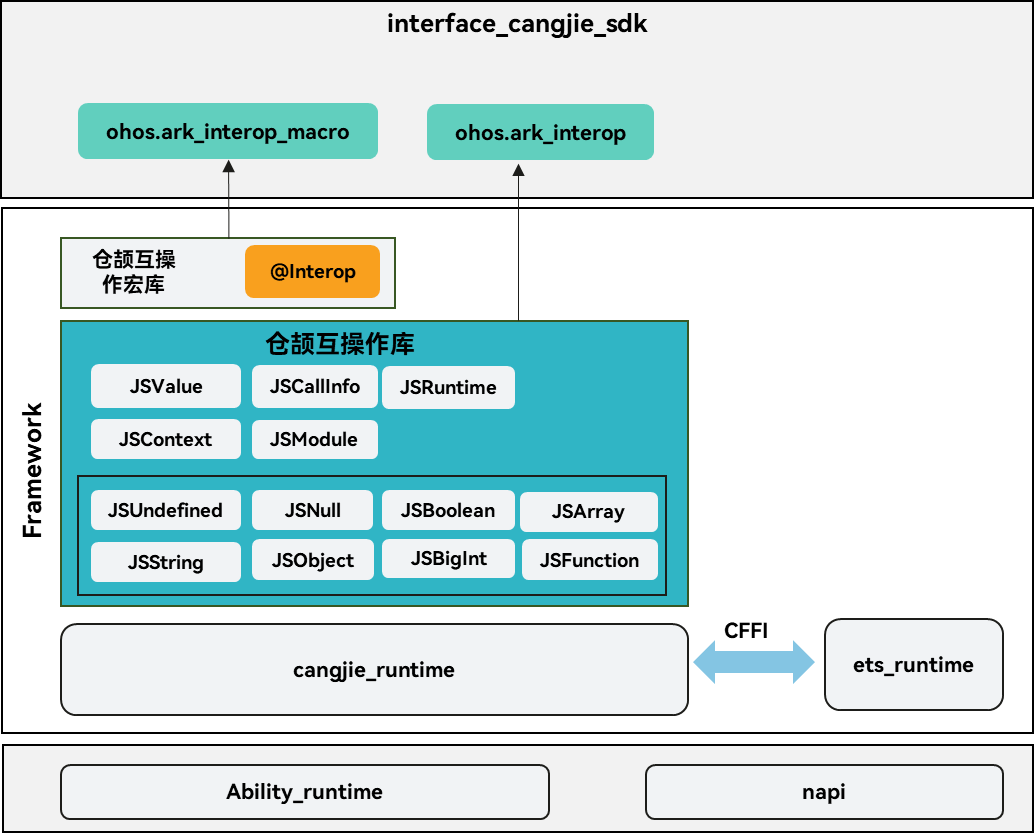
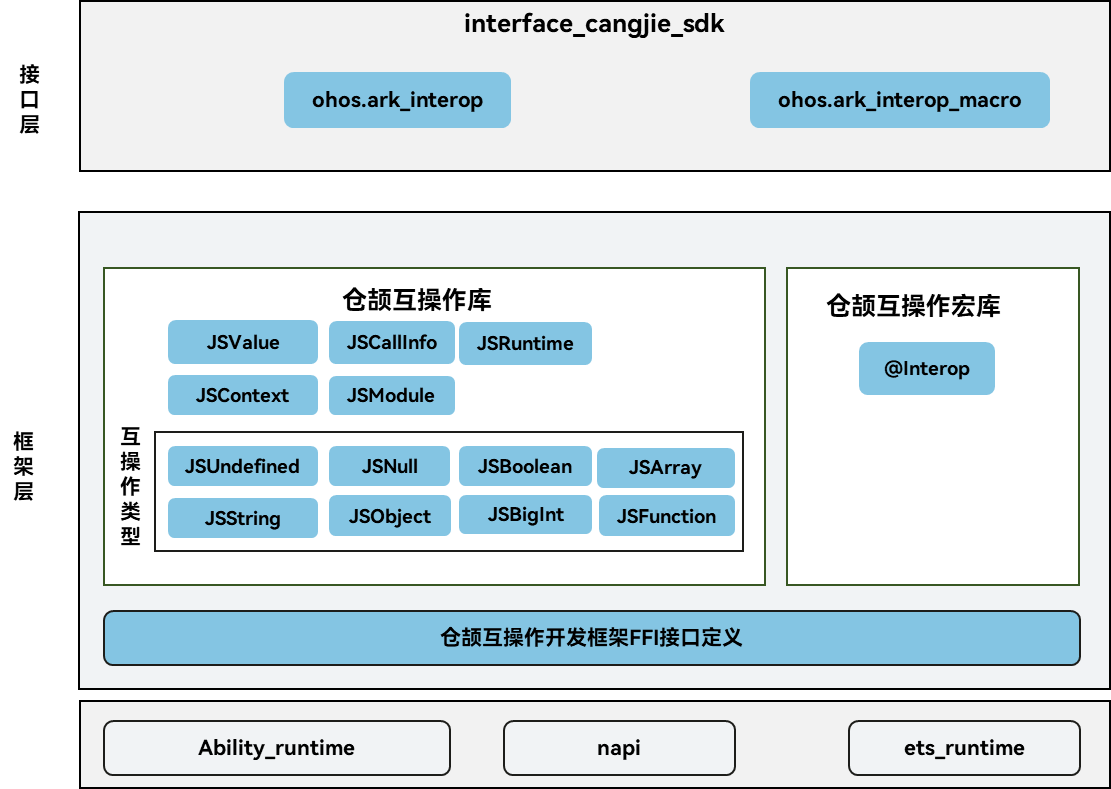
fixed doc

diff --git a/README_zh.md b/README_zh.md
@@ -1,8 +1,17 @@
-# 仓颉-ArkTS互操作接口
+# 仓颉-ArkTS互操作
 
 ## 简介
 
-仓颉-ArkTS互操作接口，用于提供仓颉与ArkTS跨语言互操作能力，包含仓颉互操作库接口、互操作宏接口，期望给开发者提供兼顾开发效率和运行效率的跨语言互操作解决方案，提供简洁的互操作开发范式，降低跨语言互通开销。同时本仓还提供了公共能力接口，包含JSON序列化和反序列化接口、C语言互操作工具类接口、通用异常接口、回调接口、API Level接口，并且还提供了公共文档，包含仓颉API参考、应用开发指南和仓颉编程语言用户手册。当前本仓开放的接口仅支持standard设备。
+仓颉-ArkTS互操作，用于提供仓颉与ArkTS跨语言互操作能力，包含仓颉互操作库接口、互操作宏接口，期望给开发者提供兼顾开发效率和运行效率的跨语言互操作解决方案，提供简洁的互操作开发范式，降低跨语言互通开销。同时本仓还提供了公共能力接口，包含JSON序列化和反序列化接口、C语言互操作工具类接口、通用异常接口、跨语言回调接口，并且还提供了公共文档，包含仓颉API参考、应用开发指南和仓颉编程语言用户手册。当前本仓开放的接口仅支持standard设备。
+
+本仓库提供的公共能力接口共分两类，第一类用于开发者调用仓颉API时提供的公共接口，包含通用异常接口、跨语言回调接口；第二类用于仓颉内部API开发时，使用的内部公共接口，包含JSON序列化和反序列化接口和C语言互操作工具类接口。
+
+- 通用异常接口：提供了通用的异常类BusinessException。
+- 跨语言回调接口：提供了用于跨语言函数回调参数的工具类。
+- JSON序列化和反序列化接口：用于对JSON数据的处理，实现String,JsonValue,DataModel之间的相互转换。
+- C语言互操作工具类接口：提供了管理C互操作对象的工具类。
+
+## 系统架构
 
 整体架构如下图所示：
 
@@ -15,28 +24,17 @@
     - 互操作库(ohos.ark_interop)：开发者通过调用互操作提供的API，实现跨语言参数传递、函数调用等能力。
     - 互操作宏(ohos.ark_interop_macro)：开发者使用互操作宏来标注需要被ArkTS代码调用的仓颉接口，能够自动生成互操作“胶水”代码及ArkTS接口声明。
 
-- 互操作库还提供以下的关键数据结构：
+- 关键数据结构：
 
-    - JSValue: 用于表示来自ArkTS中的对象（如数字、字符串、对象、函数），是仓颉与ArkTS类型转换的桥梁。
-    - JSModule: JSModule的目标是提供符号导出能力（导出到ArkTS）。配合自定义静态初始化函数，在动态库被加载时把导出目标注册到全局表，并由ArkTS引擎来执行导出。
-    - JSRuntime: 用于表示仓颉创建的 ArkTS 运行时。
-    - JSContext: 用于表示与ArkTS互操作的上下文，提供模块加载、JSValue创建等能力。
-    - JSCallInfo: 用于表示当发生来自于ArkTS互操作调用时 调用的参数集合。
+    - JSRuntime：用于表示ArkTS运行时实例，每个ArkTS运行时对应一个JSRuntime实例，其提供创建JSRuntime的方法，以及获取与该JSRuntime关联的执行上下文JSContext；
+    - JSContext：用于表示与一个JSRuntime关联的执行上下文，该执行上下文保存了全局对象，并提供模块加载，JSValue访问等相关方法；
+    - JSModule：用于表示一个ArkTS模块，通过其提供的方法，即可以把已加载的ArkTS模块转换为JSObject，使能对该模块中数据和方法的访问；也可以创建新模块，并向该模块注册方法，用于将仓颉逻辑导出给ArkTS侧调用；
+    - JSCallInfo：用于表示ArkTS调用仓颉方法时的调用信息，主要用于获取参数数量和参数列表；
+    - JSValue：用于表示一个ArkTS的对象，在仓颉与 ArkTS 互操作时，它用于封装和传递 ArkTS 数据对象，当在仓颉侧需要获取JSValue中的值时，需要使用JSValue中提供的方法将其转换为具体类型的实例，比如JSNumber、JSString、JSBoolean等；反之，当在仓颉侧需要把数据传递给ArkTS时，可以利用JSContext提供的方法将一个仓颉对象封装成JSValue实例；
 
-- 互操作库主要提供以下主要类型有JSUndefined,JSNull,JSBoolean,JSNumber,JSString,JSObject,JSArray,JSFunction,JSBigInt等。
+- 互操作库主要提供以下主要类型:JSUndefined,JSNull,JSBoolean,JSNumber,JSString,JSObject,JSArray,JSFunction,JSBigInt等，其映射的仓颉类型请参考[类型映射](https://gitcode.com/openharmony-sig/arkcompiler_cangjie_ark_interop/blob/master/doc/User_Manual/source_zh_cn/FFI/cangjie-arkts/interoperability_macro.md#%E7%B1%BB%E5%9E%8B%E6%98%A0%E5%B0%84)。
 
 - 互操作库通过C语言互操作调用ArkTS虚拟机和napi提供的接口完成互操作功能。
-
-## 公共能力
-
-本仓库还提供了公共能力的接口，这些接口共分两类，第一类用于开发者调用仓颉API时提供的公共接口，包含通用异常接口、回调接口；第二类用于仓颉内部API开发时，使用的内部公共接口，包含JSON序列化和反序列化接口、C语言互操作工具类接口和API Level接口。
-
-- 通用异常接口：提供了通用的异常类BusinessException。
-- 回调接口：提供了用于函数回调参数的工具类。
-- JSON序列化和反序列化接口：用于对JSON数据的处理，实现String,JsonValue,DataModel之间的相互转换。
-- C语言互操作工具类接口：提供了管理C互操作对象的工具类。
-- API Level接口：提供了API Level的接口，用于获取当前API Level。
-
 
 ## 目录
 
@@ -67,19 +65,19 @@ arkcompiler/cangjie_ark_interop
 
 - 场景一：在使用ArkTS开发时，通过跨语言互操作调用仓颉开发的代码模块，发挥仓颉高性能高并发优势，提升应用性能体验；
 
-详细的例子请参考：[在 ArkTS 中加载仓颉模块](https://gitcode.com/openharmony-sig/arkcompiler_cangjie_ark_interop/blob/master/doc/User_Manual/source_zh_cn/FFI/cangjie-arkts/arkts_import_cangjie.md)
+详细的例子请参考：[在ArkTS中加载仓颉模块](https://gitcode.com/openharmony-sig/arkcompiler_cangjie_ark_interop/blob/master/doc/User_Manual/source_zh_cn/FFI/cangjie-arkts/arkts_import_cangjie.md)
 
 - 场景二：在使用仓颉开发时，通过跨语言互操作调用ArkTS库，复用ArkTS丰富的库生态；
 
-详细的例子请参考：[仓颉应用中使用 ArkTS 模块](https://gitcode.com/openharmony-sig/arkcompiler_cangjie_ark_interop/blob/master/doc/User_Manual/source_zh_cn/FFI/cangjie-arkts/using_arkts_module.md)
+详细的例子请参考：[仓颉应用中使用ArkTS模块](https://gitcode.com/openharmony-sig/arkcompiler_cangjie_ark_interop/blob/master/doc/User_Manual/source_zh_cn/FFI/cangjie-arkts/using_arkts_module.md)
 
-同时针对互操作带来的开发复杂度，仓颉提供声明式互操作宏ark_interop_macro，使开发者可以使用宏“@Interop[ArkTS]”标注仓颉代码中需要导出给ArkTS使用的函数或类型，在编译阶段自动生成互操作“胶水层”代码及ArkTS接口声明，减少开发者手写互操作代码的复杂度。详细的例子请参考：[仓颉- ArkTS 声明式互操作宏](https://gitcode.com/openharmony-sig/arkcompiler_cangjie_ark_interop/blob/master/doc/User_Manual/source_zh_cn/FFI/cangjie-arkts/interoperability_macro.md)。
+同时针对互操作带来的开发复杂度，仓颉提供声明式互操作宏ark_interop_macro，使开发者可以使用宏“@Interop[ArkTS]”标注仓颉代码中需要导出给ArkTS使用的函数或类型，在编译阶段自动生成互操作“胶水层”代码及ArkTS接口声明，减少开发者手写互操作代码的复杂度。详细的例子请参考：[仓颉-ArkTS声明式互操作宏](https://gitcode.com/openharmony-sig/arkcompiler_cangjie_ark_interop/blob/master/doc/User_Manual/source_zh_cn/FFI/cangjie-arkts/interoperability_macro.md)。
 
-## 开发者文档
+互操作相关API请参见[API文档](https://gitcode.com/openharmony-sig/arkcompiler_cangjie_ark_interop/blob/master/doc/API_Reference/source_zh_cn/arkinterop/cj-apis-ark_interop.md)，相关指导请参见[开发指南](https://gitcode.com/openharmony-sig/arkcompiler_cangjie_ark_interop/blob/master/doc/Dev_Guide/summary_cjnative_ohos.md)
 
-[API文档](https://gitcode.com/openharmony-sig/arkcompiler_cangjie_ark_interop/blob/master/doc/API_Reference/source_zh_cn/arkinterop/cj-apis-ark_interop.md)
+## 约束
 
-[开发指南](https://gitcode.com/openharmony-sig/arkcompiler_cangjie_ark_interop/blob/master/doc/Dev_Guide/summary_cjnative_ohos.md)
+无
 
 ## 参与贡献
 
@@ -87,6 +85,8 @@ arkcompiler/cangjie_ark_interop
 
 ## 相关仓
 
-[arkui_napi](https://gitee.com/openharmony/arkui_napi)
+[arkui_napi](https://gitcode.com/openharmony/arkui_napi)
 
-[ability_runtime](https://gitee.com/openharmony/ability_ability_runtime)
+[ability_runtime](https://gitcode.com/openharmony/ability_ability_runtime)
+
+[ability_runtime](https://gitcode.com/openharmony/arkcompiler_ets_runtime)

diff --git a/README.md b/README.md
@@ -1,8 +1,17 @@
-# Cangjie Interop API Public Repository
+# Cangjie - ArkTS Interoperability
 
 ## Introduction
 
-The Cangjie ArkTS Interop Library API is used to provide cross-language interoperability between Cangjie and ArkTS, includes the common interfaces, interop macro interfaces, hoping to provide developers with cross-language interop solutions that take into account both development efficiency and operational efficiency, provide a simple interop development paradigm, and reduce cross-language interop overhead.At the same time, this warehouse also provides public capability interfaces, including JSON serialisation and deserialisation interfaces, C language interoperability utility class interfaces, general exception interfaces, callback interfaces, API Level interfaces, and also offers public documentation, including a Cangjie API reference, application development guide, and Cangjie programming language user manual.Currently, the interfaces open in this warehouse only support standard devices.
+The Cangjie ArkTS Interop Library is used to provide cross-language interoperability between Cangjie and ArkTS, includes the common interfaces, interop macro interfaces, hoping to provide developers with cross-language interop solutions that take into account both development efficiency and operational efficiency, provide a simple interop development paradigm, and reduce cross-language interop overhead.At the same time, this warehouse also provides public capability interfaces, including JSON serialisation and deserialisation interfaces, C language interoperability utility class interfaces, general exception interfaces, Cross-language callback interface, and also offers public documentation, including a Cangjie API reference, application development guide, and Cangjie programming language user manual.Currently, the interfaces open in this warehouse only support standard devices.
+
+The public capability interfaces provided by this repository are divided into two categories: the first category is for developers to call the public interfaces provided by the Cangjie API, including general exception interfaces and callback interfaces; the second category is for internal public interfaces used during the development of the Cangjie internal API, including JSON serialization and deserialization interfaces, and C language interoperability utility class interfaces.
+
+- JSON serialisation and deserialisation interfaces:Used for processing JSON data, achieving mutual conversion between String, JsonValue, and DataModel.
+- C language interoperability interfaces:Provides a utility class for managing C interoperability objects.
+- general exception interfaces:A general exception class BusinessException.
+- callback interfaces:A utility class for function callback parameters.
+
+## System architecture
 
 The overall structure is shown below.
 
@@ -25,16 +34,6 @@ The overall structure is shown below.
 - The interoperability library mainly provides the following main types: JSUndefined, JSNull, JSBoolean, JSNumber, JSString, JSObject, JSArray, JSFunction, JSBigInt, etc.
 
 - The library completes the interoperability function by calling the interface provided by the ArkTS virtual machine and napi through CFFI.
-
-## Public ability
-
-This repository also provides interfaces for public capabilities, which are divided into two categories: the first category is for developers to call the public interfaces provided by the Cangjie API, including general exception interfaces and callback interfaces; the second category is for internal public interfaces used during the development of the Cangjie internal API, including JSON serialization and deserialization interfaces, C language interoperability utility class interfaces, and API Level interfaces.
-
-- JSON serialisation and deserialisation interfaces:Used for processing JSON data, achieving mutual conversion between String, JsonValue, and DataModel.
-- C language interoperability interfaces:Provides a utility class for managing C interoperability objects.
-- general exception interfaces:A general exception class BusinessException.
-- callback interfaces:A utility class for function callback parameters.
-- API level interfaces:Provides an API Level interface for obtaining the current API Level.
 
 ## Directory
 
@@ -81,11 +80,7 @@ At the same time, in response to the development complexity brought about by int
 
 For more detailed examples, please refer to[Cangjie-ArkTS Declarative Interop Macros](https://gitcode.com/openharmony-sig/arkcompiler_cangjie_ark_interop/blob/master/doc/User_Manual/source_en/FFI/cangjie-arkts/interoperability_macro.md)
 
-## Developer Document
-
-[API Document](https://gitcode.com/openharmony-sig/arkcompiler_cangjie_ark_interop/blob/master/doc/API_Reference/source_zh_cn/arkinterop/cj-apis-ark_interop.md)
-
-[Develop Guide](hhttps://gitcode.com/openharmony-sig/arkcompiler_cangjie_ark_interop/blob/master/doc/Dev_Guide/summary_cjnative_ohos.md)
+For interoperability related APIs, please refer to[API Document](https://gitcode.com/openharmony-sig/arkcompiler_cangjie_ark_interop/blob/master/doc/API_Reference/source_zh_cn/arkinterop/cj-apis-ark_interop.md)
 
 ## Code Contribution
 
@@ -93,6 +88,8 @@ Developers are welcome to contribute code, documentation, etc. For specific cont
 
 ## Related Repositories
 
-[arkui_napi](https://gitee.com/openharmony/arkui_napi)
+[arkui_napi](https://gitcode.com/openharmony/arkui_napi)
 
-[ability_runtime](https://gitee.com/openharmony/ability_ability_runtime)
+[ability_runtime](https://gitcode.com/openharmony/ability_ability_runtime)
+
+[ability_runtime](https://gitcode.com/openharmony/arkcompiler_ets_runtime)
